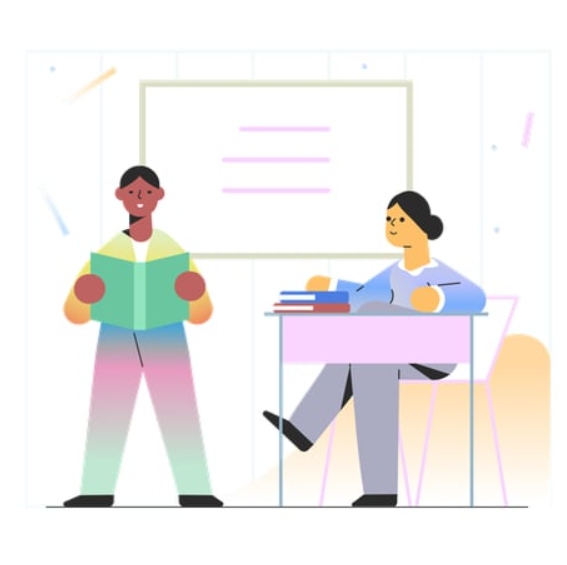
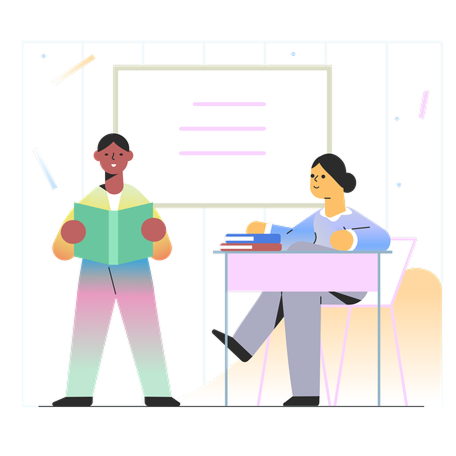
Refactor code structure for improved readability and maintainability

diff --git a/frontend/src/pages/DashboardPage.jsx b/frontend/src/pages/DashboardPage.jsx
@@ -11,6 +11,7 @@ import Layout                    from "../components/Layout";
 import DashboardStatCard         from "../components/DashboardStatCard";
 import ReadingProfileChart       from "../components/ReadingProfileChart";
 import FluencyComprehensionChart from "../components/FluencyComprehensionChart";
+import * as XLSX from "xlsx";
 import { dashboardApi, studentsApi } from "../services/api";
 
 import "./DashboardPage.css";
@@ -55,29 +56,44 @@ function getScoreColor(value, type = "percent") {
   return "#27ae60";
 }
 
-// ── Export students to CSV ───────────────────────────────────
-function exportStudentsCSV(students, schoolYear) {
-  const headers = [
-    "ID", "First Name", "Last Name", "LRN",
-    "Grade", "Section", "Sex", "Reading Profile",
+// ── Export dashboard data to Excel ──────────────────────────
+function exportDashboardXlsx(students, profileData, genderData, schoolYear) {
+  const wb = XLSX.utils.book_new();
+
+  // Sheet 1: Students
+  const studentRows = students.map((s) => ({
+    ID: s.id,
+    "First Name": s.first_name,
+    "Last Name": s.last_name,
+    LRN: s.lrn ?? "",
+    Grade: s.grade_level,
+    Section: s.section ?? "",
+    Sex: s.sex ?? "",
+    "Reading Profile": s.reading_profile ?? "",
+  }));
+  XLSX.utils.book_append_sheet(wb, XLSX.utils.json_to_sheet(studentRows), "Students");
+
+  // Sheet 2: Reading Profile Distribution
+  const PROFILES = [
+    "Low Emerging Reader", "High Emerging Reader", "Developing Reader",
+    "Transitioning Reader", "Reading at Grade Level",
   ];
-  const rows = students.map((s) =>
-    [
-      s.id, s.first_name, s.last_name, s.lrn ?? "",
-      s.grade_level, s.section ?? "", s.sex ?? "",
-      s.reading_profile ?? "",
-    ]
-      .map((v) => `"${String(v).replace(/"/g, '""')}"`)
-      .join(",")
-  );
-  const csv  = [headers.join(","), ...rows].join("\n");
-  const blob = new Blob([csv], { type: "text/csv" });
-  const url  = URL.createObjectURL(blob);
-  const a    = document.createElement("a");
-  a.href     = url;
-  a.download = `hearmeread_students_${schoolYear}.csv`;
-  a.click();
-  URL.revokeObjectURL(url);
+  const profileRows = PROFILES.map((p) => ({
+    "Reading Profile": p,
+    "Female (%)": profileData.female?.[p] ?? 0,
+    "Male (%)": profileData.male?.[p] ?? 0,
+    "Total (%)": profileData.total?.[p] ?? 0,
+  }));
+  XLSX.utils.book_append_sheet(wb, XLSX.utils.json_to_sheet(profileRows), "Reading Profile Distribution");
+
+  // Sheet 3: Gender Distribution
+  const genderRows = [
+    { Sex: "Female", Count: genderData.female ?? 0 },
+    { Sex: "Male",   Count: genderData.male   ?? 0 },
+  ];
+  XLSX.utils.book_append_sheet(wb, XLSX.utils.json_to_sheet(genderRows), "Gender Distribution");
+
+  XLSX.writeFile(wb, `hearmeread_dashboard_${schoolYear}.xlsx`);
 }
 
 // ============================================================
@@ -123,7 +139,7 @@ export default function DashboardPage() {
   }, [schoolYear]);
 
   function handleExport() {
-    exportStudentsCSV(students, schoolYear);
+    exportDashboardXlsx(students, profileData, genderData, schoolYear);
   }
 
   // ── Loading state ─────────────────────────────────────────
@@ -231,7 +247,7 @@ export default function DashboardPage() {
           <>
             <FluencyComprehensionChart
               data={fluencyAcc}
-              title="Reading Fluency and Comprehension Average %"
+              title="Reading Fluency and Comprehension Average Percentage"
               unit="%"
             />
             <FluencyComprehensionChart

diff --git a/frontend/src/components/ReadingProfileChart.jsx b/frontend/src/components/ReadingProfileChart.jsx
@@ -9,7 +9,7 @@
 //   genderData — { female: number, male: number }
 // ============================================================
 import {
-  BarChart, Bar, XAxis, YAxis, Tooltip, Legend,
+  BarChart, Bar, XAxis, YAxis, Tooltip, Legend, LabelList,
   ResponsiveContainer, PieChart, Pie, Cell,
 } from "recharts";
 
@@ -65,7 +65,7 @@ export default function ReadingProfileChart({ data = {}, genderData = {} }) {
       <div className="db-chart-card db-chart-card--wide">
         <div className="db-chart-header">
           <h3 className="db-chart-title">
-            % of Students Assessed by Reading Profile
+            Percentage of Students Assessed by Reading Profile
           </h3>
         </div>
 
@@ -73,7 +73,7 @@ export default function ReadingProfileChart({ data = {}, genderData = {} }) {
           <BarChart
             data={barData}
             margin={{ top: 16, right: 16, left: -16, bottom: 0 }}
-            barCategoryGap="30%"
+            barCategoryGap="20%"
             barGap={2}
           >
             <XAxis
@@ -102,8 +102,15 @@ export default function ReadingProfileChart({ data = {}, genderData = {} }) {
                 name={profile}
                 fill={PROFILE_COLORS[profile]}
                 radius={[3, 3, 0, 0]}
-                maxBarSize={20}
-              />
+                maxBarSize={36}
+              >
+                <LabelList
+                  dataKey={profile}
+                  position="insideTop"
+                  formatter={(v) => (v > 0 ? `${v}%` : "")}
+                  style={{ fill: "#fff", fontSize: 9, fontFamily: "Poppins", fontWeight: 700 }}
+                />
+              </Bar>
             ))}
           </BarChart>
         </ResponsiveContainer>
@@ -112,7 +119,7 @@ export default function ReadingProfileChart({ data = {}, genderData = {} }) {
       {/* ── Right: Gender Pie Chart ── */}
       <div className="db-chart-card db-chart-card--narrow">
         <div className="db-chart-header">
-          <h3 className="db-chart-title">% of Learners Assessed</h3>
+          <h3 className="db-chart-title">Percentage of Learners Assessed</h3>
         </div>
 
         <div className="db-pie-legend">
@@ -136,7 +143,19 @@ export default function ReadingProfileChart({ data = {}, genderData = {} }) {
               innerRadius={0}
               outerRadius={75}
               dataKey="value"
-              label={({ name, value }) => `${value}%`}
+              label={({ cx, cy, midAngle, innerRadius, outerRadius, value }) => {
+                if (!value) return null;
+                const RADIAN = Math.PI / 180;
+                const r = innerRadius + (outerRadius - innerRadius) * 0.5;
+                const x = cx + r * Math.cos(-midAngle * RADIAN);
+                const y = cy + r * Math.sin(-midAngle * RADIAN);
+                return (
+                  <text x={x} y={y} fill="#fff" textAnchor="middle" dominantBaseline="central"
+                        fontSize={11} fontFamily="Poppins" fontWeight={700}>
+                    {value}%
+                  </text>
+                );
+              }}
               labelLine={false}
             >
               {pieData.map((_, i) => (

diff --git a/frontend/src/components/AuthLayout.jsx b/frontend/src/components/AuthLayout.jsx
@@ -1,6 +1,16 @@
 import { useNavigate } from "react-router-dom";
 import "./component css/Auth.css";
-import authBg from "../assets/teach.png";
+import bgImage      from "../assets/auth-bg.png";
+import teachImg     from "../assets/teach.png";
+import changePword  from "../assets/change-pword.png";
+import forgotPword  from "../assets/forgot-pword.png";
+
+const LEFT_IMAGE = {
+  login:  teachImg,
+  signup: teachImg,
+  forgot: forgotPword,
+  reset:  changePword,
+};
 
 /**
  * AuthLayout
@@ -24,7 +34,10 @@ export default function AuthLayout({ children, page }) {
 
       {/* ── Navbar ── */}
       <nav className="auth-nav">
-        <span className="auth-nav__brand">HearMeRead</span>
+        <span className="auth-nav__brand">
+          <img src="/HMR-LOGO.png" alt="HearMeRead" style={{ height: 32, width: "auto", verticalAlign: "middle", marginRight: 8 }} />
+          HearMeRead
+        </span>
         <div className="auth-nav__actions">
           <button
             className={`auth-nav__btn ${page === "login" ? "auth-nav__btn--active" : "auth-nav__btn--ghost"}`}
@@ -46,9 +59,16 @@ export default function AuthLayout({ children, page }) {
         <div className="auth-card">
 
           {/* ── Image panel (left) ── */}
-          <div className="auth-card__left">
+          <div
+            className="auth-card__left"
+            style={{
+              backgroundImage: `url(${bgImage})`,
+              backgroundSize: "cover",
+              backgroundPosition: "center",
+            }}
+          >
             <img
-              src={authBg}
+              src={LEFT_IMAGE[page] ?? teachImg}
               alt=""
               className="auth-card__left-img"
               aria-hidden="true"

diff --git a/frontend/src/components/FluencyComprehensionChart.jsx b/frontend/src/components/FluencyComprehensionChart.jsx
@@ -1,5 +1,5 @@
 import {
-  BarChart, Bar, XAxis, YAxis, Tooltip, Legend,
+  BarChart, Bar, XAxis, YAxis, Tooltip, Legend, LabelList,
   ResponsiveContainer, CartesianGrid,
 } from "recharts";
 
@@ -67,7 +67,14 @@ export default function FluencyComprehensionChart({
             radius={[3, 3, 0, 0]}
             maxBarSize={36}
             unit={unit}
-          />
+          >
+            <LabelList
+              dataKey="fluency"
+              position="insideTop"
+              formatter={(v) => (v > 0 ? `${v}${unit}` : "")}
+              style={{ fill: "#fff", fontSize: 10, fontFamily: "Poppins", fontWeight: 700 }}
+            />
+          </Bar>
           <Bar
             dataKey="comprehension"
             name="Reading Comprehension"
@@ -75,7 +82,14 @@ export default function FluencyComprehensionChart({
             radius={[3, 3, 0, 0]}
             maxBarSize={36}
             unit={unit}
-          />
+          >
+            <LabelList
+              dataKey="comprehension"
+              position="insideTop"
+              formatter={(v) => (v > 0 ? `${v}${unit}` : "")}
+              style={{ fill: "#fff", fontSize: 10, fontFamily: "Poppins", fontWeight: 700 }}
+            />
+          </Bar>
         </BarChart>
       </ResponsiveContainer>
     </div>

diff --git a/frontend/src/pages/Student/ClassRecordPage.jsx b/frontend/src/pages/Student/ClassRecordPage.jsx
@@ -75,10 +75,12 @@ export default function ClassRecordPage() {
     setLoading(true);
     setError(null);
     try {
+      const stuParams  = { page, page_size: pageSize, ...(grade ? { grade_level: grade } : {}), ...(section ? { section } : {}) };
+      const sessParams = { school_year: year, period, is_completed: true, page_size: pageSize, ...(grade ? { grade_level: grade } : {}), ...(section ? { section } : {}) };
       const [me, stuData, sessData] = await Promise.all([
         authApi.me(),
-        studentsApi.list({ page, page_size: pageSize, grade_level: grade, section }),
-        sessionsApi.list({ school_year: year, period, is_completed: true, page_size: pageSize, grade_level: grade, section }),
+        studentsApi.list(stuParams),
+        sessionsApi.list(sessParams),
       ]);
       setTeacher(me);
       setTotal(stuData.total || 0);
@@ -102,10 +104,12 @@ export default function ClassRecordPage() {
       setLoading(true);
       setError(null);
       try {
+        const stuParams  = { page, page_size: pageSize, ...(grade ? { grade_level: grade } : {}), ...(section ? { section } : {}) };
+        const sessParams = { school_year: year, period, is_completed: true, page_size: pageSize, ...(grade ? { grade_level: grade } : {}), ...(section ? { section } : {}) };
         const [me, stuData, sessData] = await Promise.all([
           authApi.me(),
-          studentsApi.list({ page, page_size: pageSize, grade_level: grade, section }),
-          sessionsApi.list({ school_year: year, period, is_completed: true, page_size: pageSize, grade_level: grade, section }),
+          studentsApi.list(stuParams),
+          sessionsApi.list(sessParams),
         ]);
         if (cancelled) return;
         setTeacher(me);
@@ -451,7 +455,9 @@ export default function ClassRecordPage() {
                             <button
                               className="cr-student-link"
                               style={{ color: nameColor }}
-                              onClick={() => navigate(`/students/${s.id}`)}
+                              onClick={() => navigate(`/students/${s.id}`, {
+                                state: { from: `/students/class?grade=${grade}&section=${encodeURIComponent(section)}&year=${encodeURIComponent(year)}&period=${period}` }
+                              })}
                             >
                               {s.last_name}, {s.first_name}
                             </button>

diff --git a/frontend/src/pages/Student/StudentInfoPage.jsx b/frontend/src/pages/Student/StudentInfoPage.jsx
@@ -1,5 +1,5 @@
 import { useState, useEffect } from "react";
-import { useParams, useNavigate } from "react-router-dom";
+import { useParams, useNavigate, useLocation } from "react-router-dom";
 import { ChevronLeft } from "lucide-react";
 
 import Layout from "../../components/Layout";
@@ -77,6 +77,8 @@ function computeStats(records = []) {
 export default function StudentInfoPage() {
   const { id } = useParams();
   const navigate = useNavigate();
+  const location = useLocation();
+  const backTo = location.state?.from ?? "/students";
   const { toasts, removeToast, showSaveSuccess } = useToast();
 
   const [student, setStudent] = useState(null);
@@ -163,7 +165,7 @@ export default function StudentInfoPage() {
       {!loading && (error || !student) && (
         <div className="sip-state sip-state--error">
           <p>⚠ {error ?? "Student not found."}</p>
-          <button className="sip-back-btn" onClick={() => navigate("/students/class")}>
+          <button className="sip-back-btn" onClick={() => navigate(backTo)}>
             <ChevronLeft size={15} /> Back to Class
           </button>
         </div>
@@ -173,7 +175,7 @@ export default function StudentInfoPage() {
         <div className="sip-page">
           <button
             className="sip-back-btn"
-            onClick={() => navigate("/students/class")}
+            onClick={() => navigate(backTo)}
             aria-label="Back to Class"
           >
             <ChevronLeft size={18} />

diff --git a/frontend/index.html b/frontend/index.html
@@ -2,8 +2,8 @@
 <html lang="en">
   <head>
     <meta charset="UTF-8" />
-    <link rel="icon" type="image/svg+xml" href="/favicon.svg" />
-    <link rel="apple-touch-icon" href="/favicon.svg" />
+    <link rel="icon" type="image/png" href="/HMR-LOGO.png" />
+    <link rel="apple-touch-icon" href="/HMR-LOGO.png" />
     <link rel="manifest" href="/manifest.json" />
     <meta name="viewport" content="width=device-width, initial-scale=1.0" />
     <meta name="theme-color" content="#1a2340" />

diff --git a/frontend/src/components/component css/Auth.css b/frontend/src/components/component css/Auth.css
@@ -145,6 +145,8 @@
 }
 
 .auth-nav__brand {
+  display: flex;
+  align-items: center;
   font-size: 22px;
   font-weight: 800;
   color: #fff;
@@ -225,7 +227,7 @@
 .auth-card__left-img {
   width: 100%;
   height: 100%;
-  object-fit: cover;
+  object-fit: contain;
   display: block;
 }
 

diff --git a/frontend/src/pages/ResetPasswordPage.jsx b/frontend/src/pages/ResetPasswordPage.jsx
@@ -48,7 +48,7 @@ export default function ResetPasswordPage() {
   // ── No token in URL → show error state ───────────────────────────────────
   if (!token) {
     return (
-      <AuthLayout page="forgot">
+      <AuthLayout page="reset">
         <h1 className="auth-heading">Invalid Link</h1>
         <p className="auth-subheading">This password reset link is missing or malformed.</p>
         <div className="auth-error" role="alert">
@@ -80,7 +80,7 @@ export default function ResetPasswordPage() {
   }
 
   return (
-    <AuthLayout page="forgot">
+    <AuthLayout page="reset">
       <h1 className="auth-heading">Reset Password</h1>
       <p className="auth-subheading">Enter your new password below</p>
 

diff --git a/frontend/src/components/StudentProfileCard.jsx b/frontend/src/components/StudentProfileCard.jsx
@@ -65,7 +65,7 @@ export default function StudentProfileCard({ student, onEdit, onDelete }) {
             <span>·</span>
             <span style={{ textTransform: "capitalize" }}>{sex ?? "—"}</span>
             <span>·</span>
-            <span>Grade {grade_level} — {section}</span>
+            <span>{grade_level === "kindergarten" ? "Kindergarten" : `Grade ${(grade_level ?? "").replace("grade_", "")}`}{section ? ` — ${section}` : ""}</span>
             {teacher && (
               <>
                 <span>·</span>